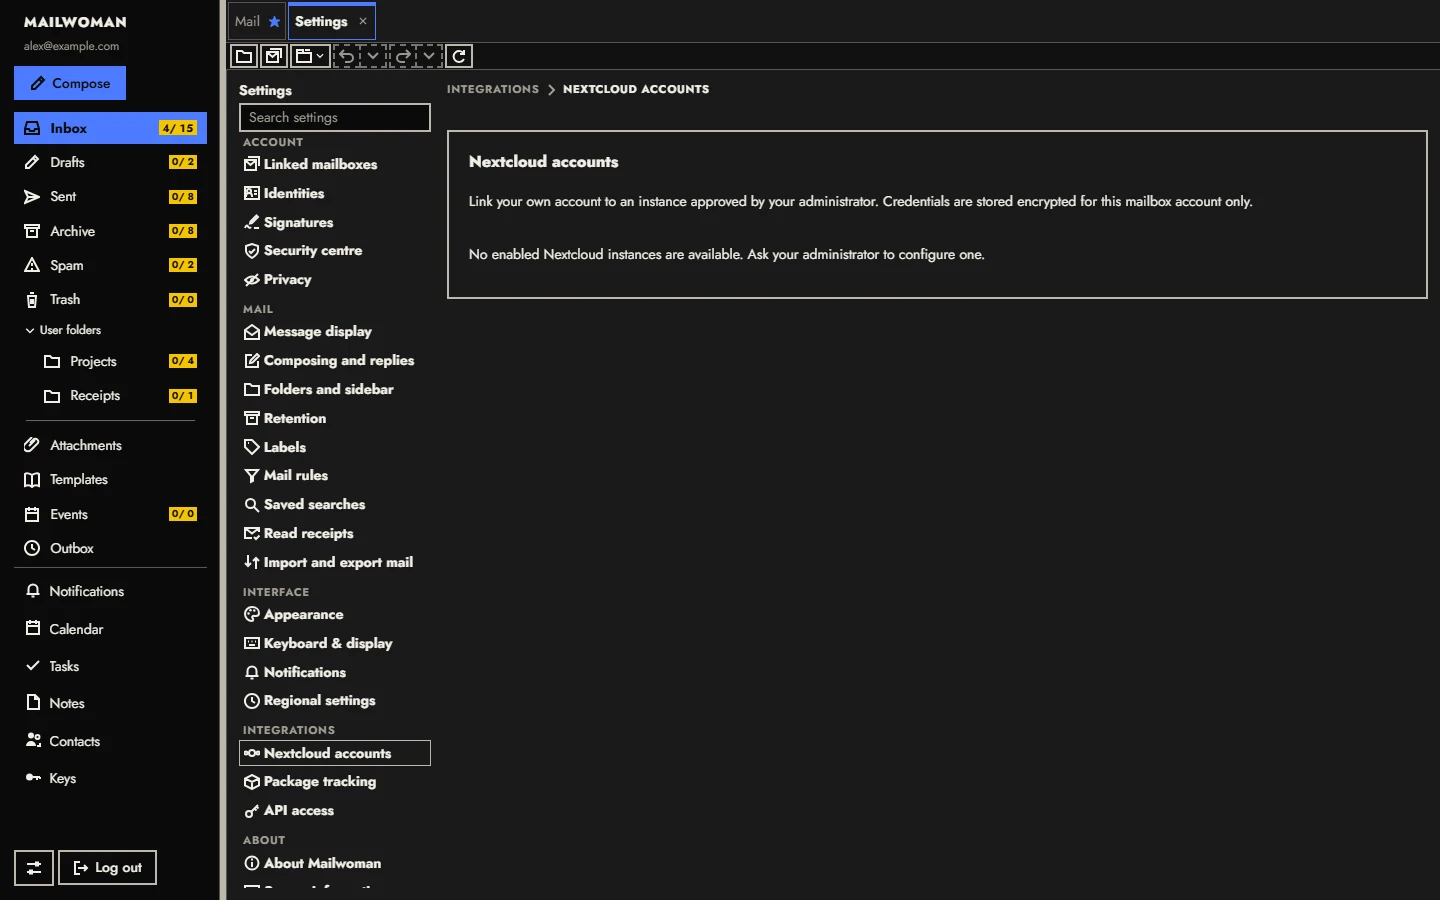
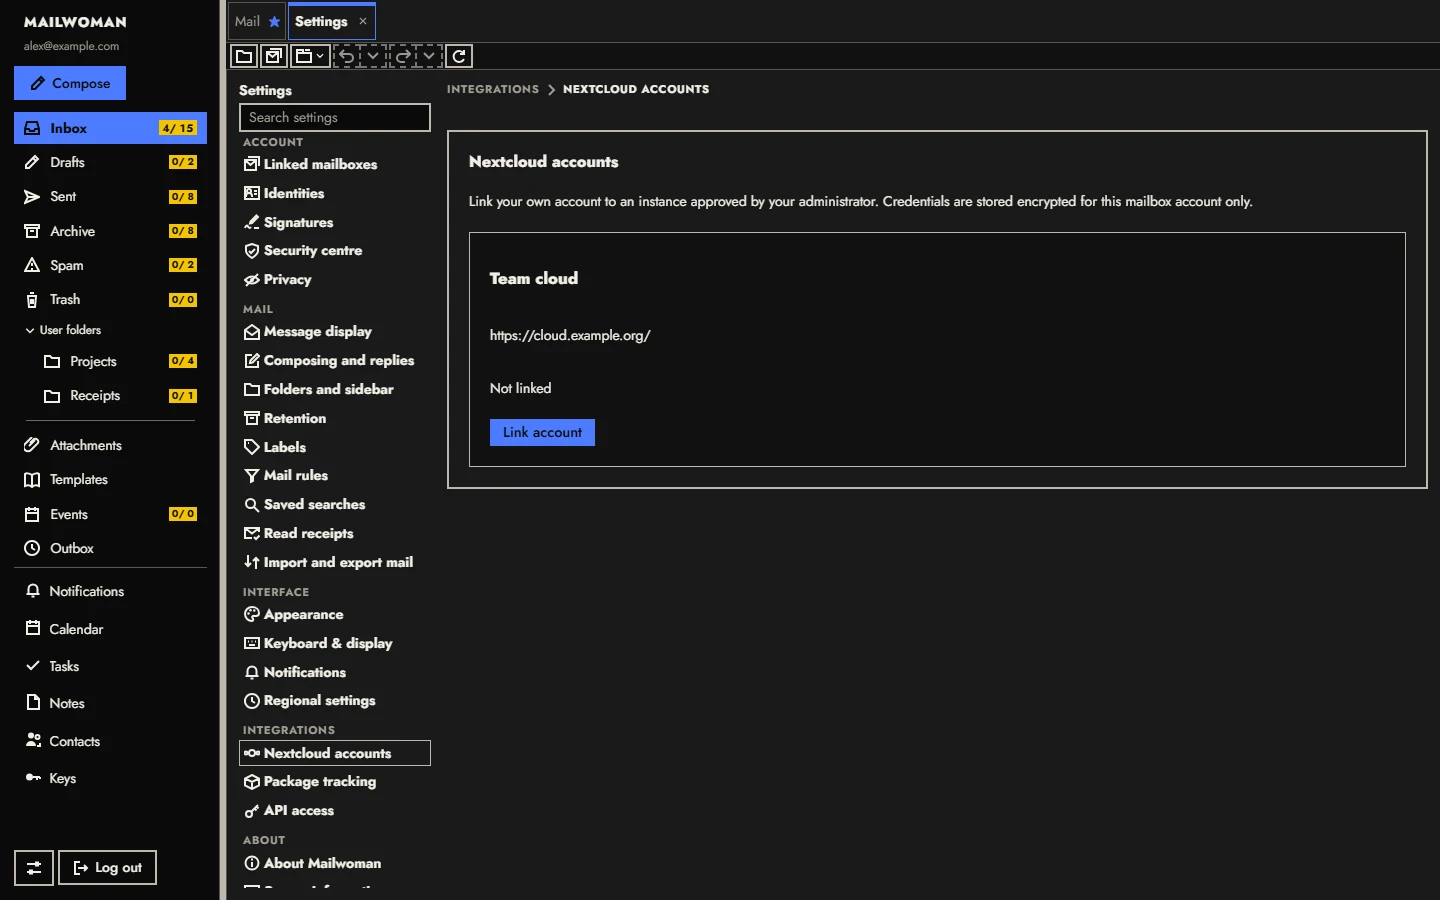
docs(integrations): user-side Nextcloud accounts screenshot with a saved instance

Changed region(s): [[0.3125, 0.28, 0.6875, 0.3422], [0.3438, 0.3733, 0.4375, 0.4356], [0.3125, 0.4667, 0.4375, 0.4978]]

diff --git a/docs/integrations/nextcloud.md b/docs/integrations/nextcloud.md
@@ -13,9 +13,9 @@ What users can do:
 - **Large-file share links**: for a file over the attachment limit, upload it to Nextcloud and insert a share link instead.
 - **Contacts and calendars**: discover calendars, task lists and address books on the linked account, connect the ones you want, and synchronize them (native engine only).
 
-![The Nextcloud accounts section of the settings. With no instance approved it reads: No enabled Nextcloud instances are available. Ask your administrator to configure one.](/screenshots/integrations/nextcloud-user-link.webp){.mw-shot}
+![The Nextcloud accounts section of the settings listing the instance Team cloud at https://cloud.example.org/ with the status Not linked and a Link account button.](/screenshots/integrations/nextcloud-user-link.webp){.mw-shot}
 
-This is the section before an administrator approves an instance. Approved instances appear in it, each with its status.
+Before an administrator approves an instance, the section reads **No enabled Nextcloud instances are available. Ask your administrator to configure one.**
 
 ## Before you start
 
